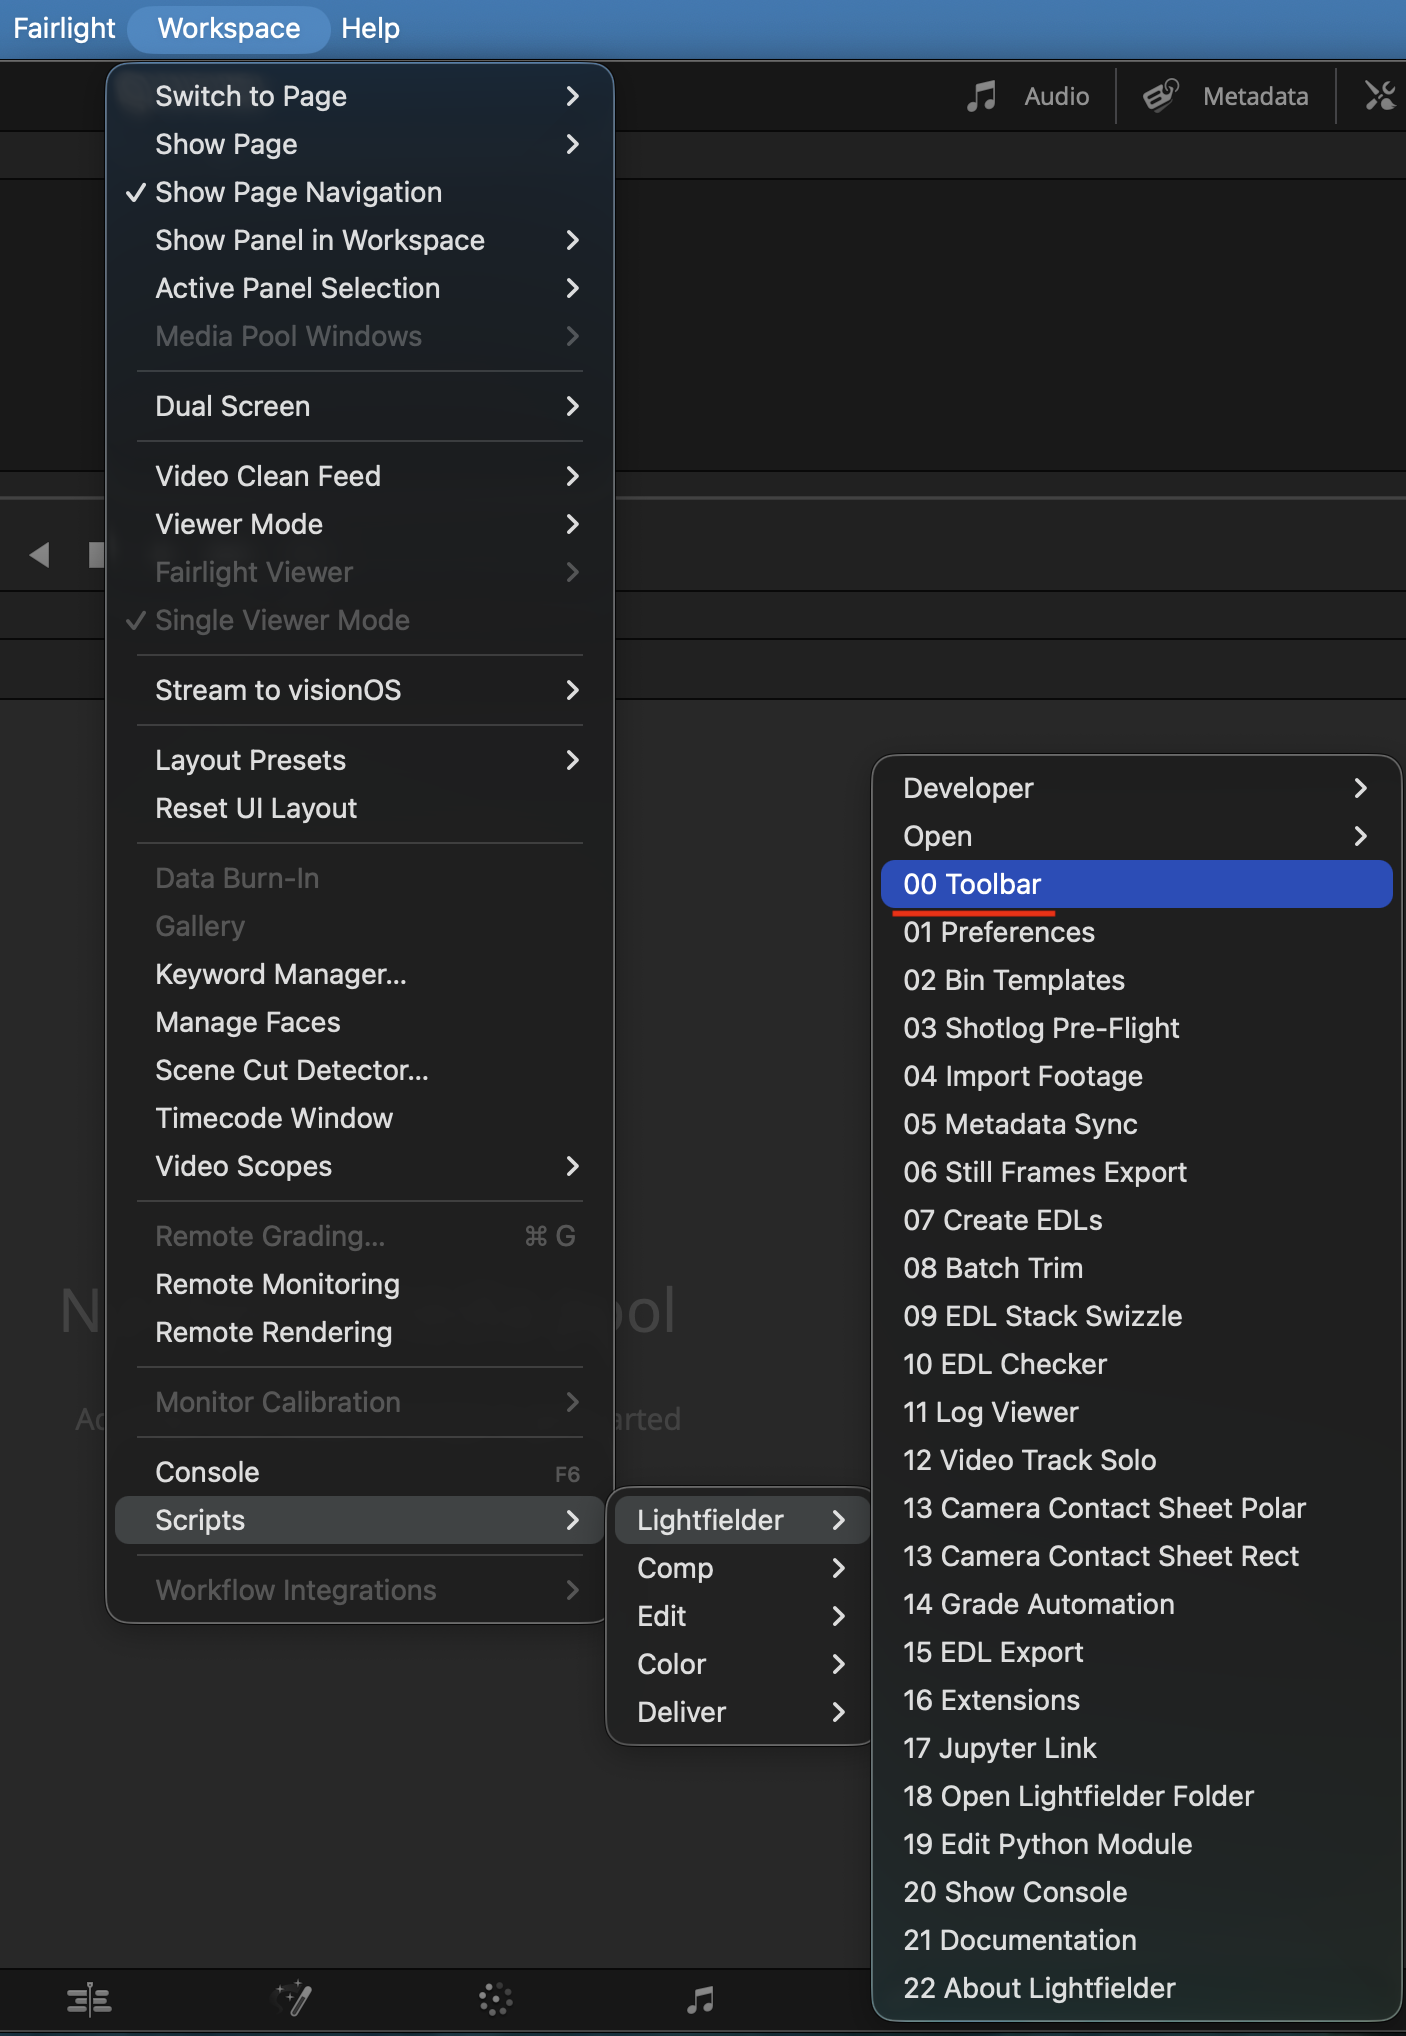
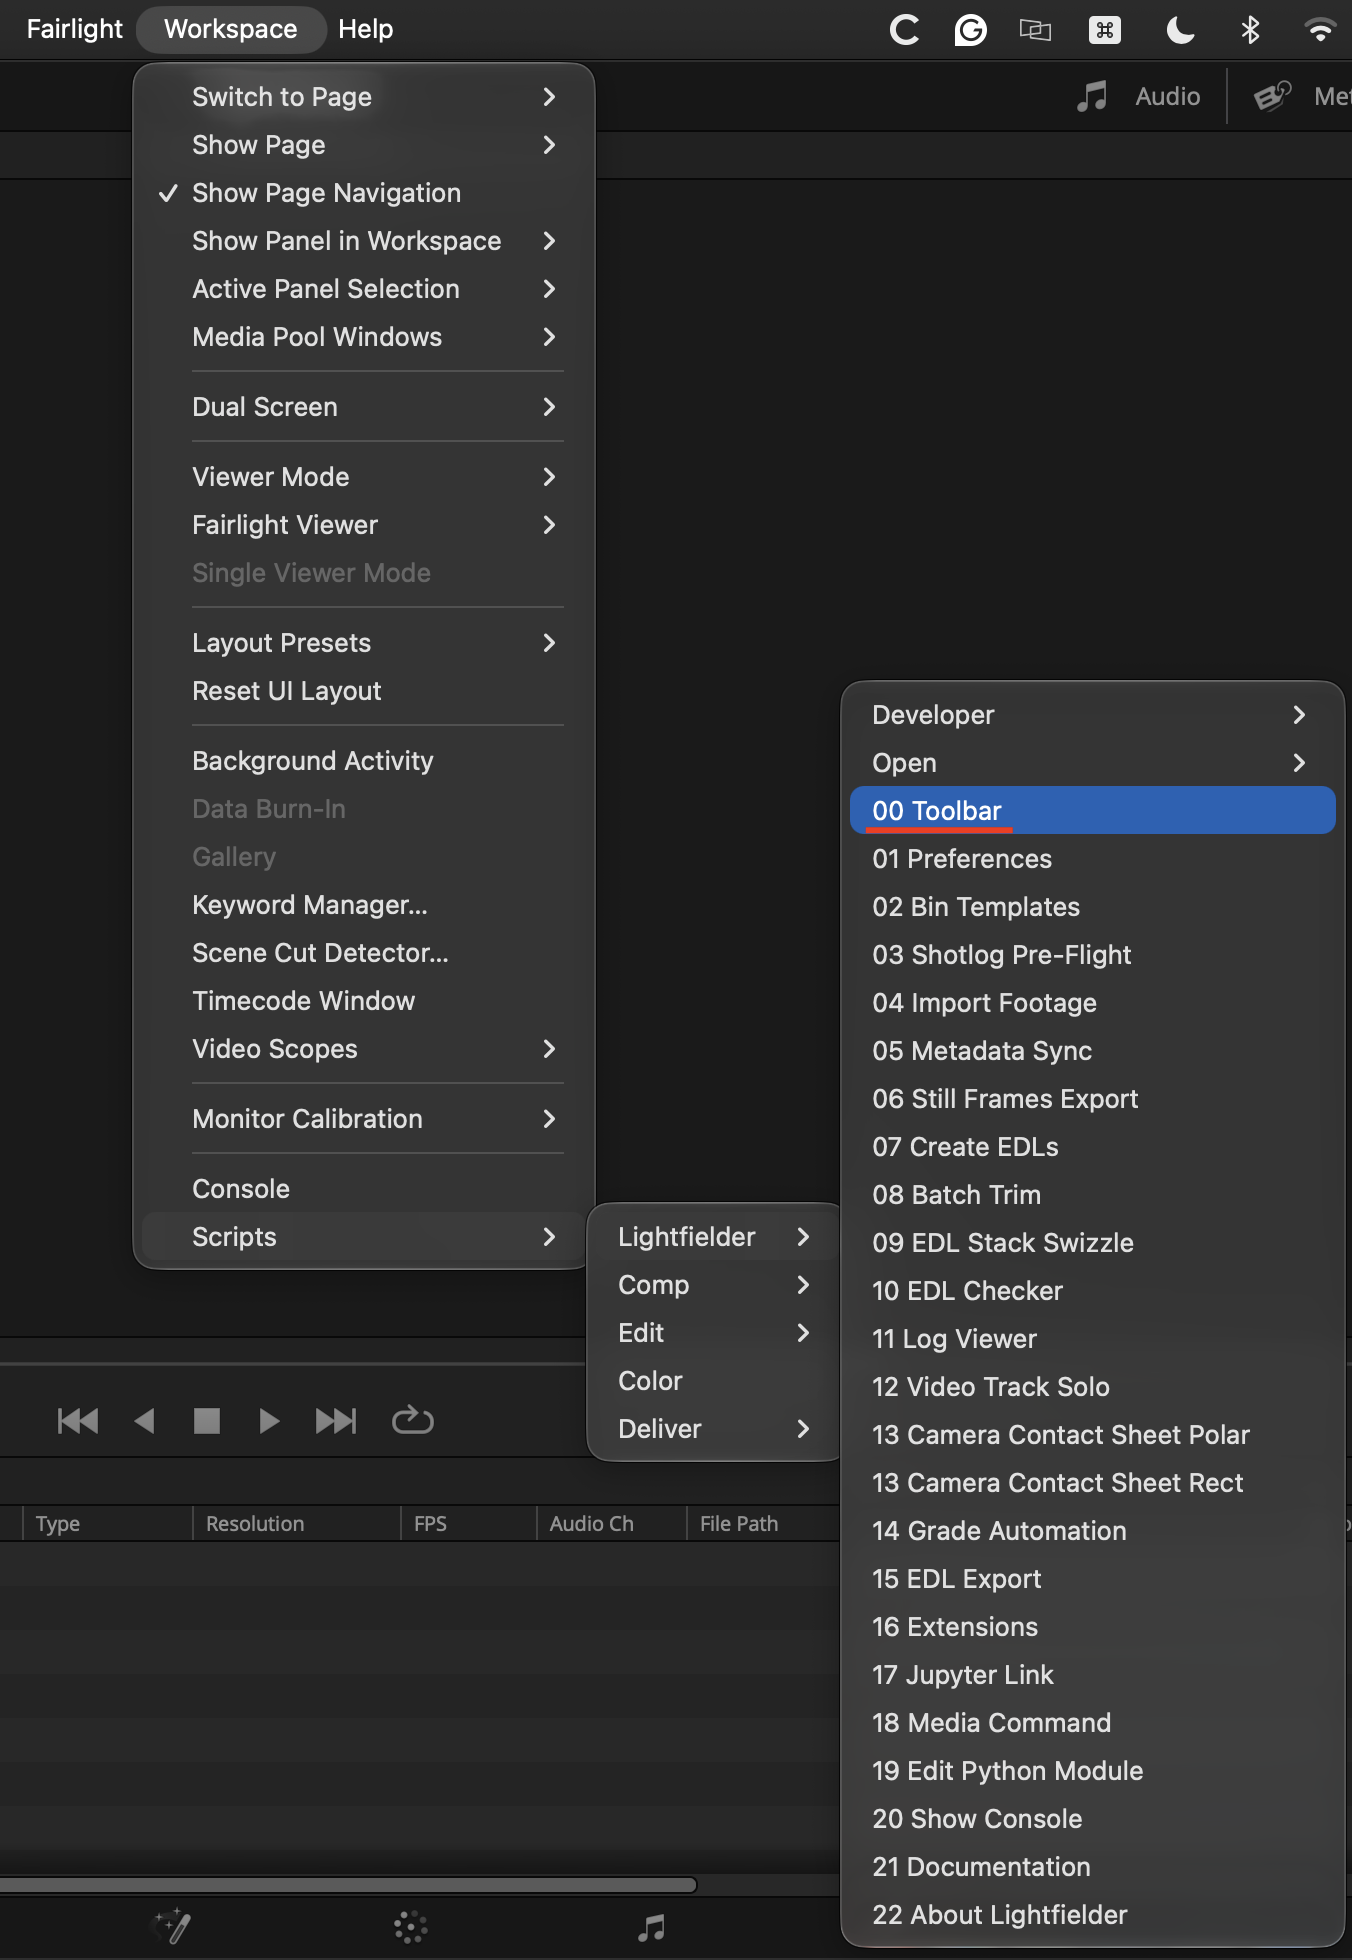
Media Command

diff --git a/Lightfielder/Docs/Scripts_00_Toolbar.md b/Lightfielder/Docs/Scripts_00_Toolbar.md
@@ -37,163 +37,150 @@ The JSON based preset files allow you to customize every parameter used in the t
 ```json
 {
 	"version": 1,
-	"width": 11,
+	"width": 10,
 	"height": 2,
-	"toolbar": {
-		"tool1": {
-			"icon": "fa-gear",
-			"script": "Lightfielder:/Resolve/Scripts/Utility/Lightfielder/01 Preferences.py",
-			"id": "PrefsWin",
-			"text": "01",
-			"tooltip": "01 Preferences"
+	"Toolbar": {
+		"Tool1": {
+			"Icon": "fa-gear",
+			"ScriptFile": "Lightfielder:/Resolve/Scripts/Utility/Lightfielder/01 Preferences.py",
+			"TargetID": "PrefsWin",
+			"Text": "01",
+			"Tooltip": "01 Preferences"
 		},
-		"tool2": {
-			"icon": "fa-archive",
-			"script": "Lightfielder:/Resolve/Scripts/Utility/Lightfielder/02 Bin Templates.py",
-			"id": "BinWin",
-			"text": "02",
-			"tooltip": "02 Bin Templates"
+		"Tool2": {
+			"Icon": "fa-archive",
+			"ScriptFile": "Lightfielder:/Resolve/Scripts/Utility/Lightfielder/02 Bin Templates.py",
+			"TargetID": "BinWin",
+			"Text": "02",
+			"Tooltip": "02 Bin Templates"
 		},
-		"tool3": {
-			"icon": "fa-medkit",
-			"script": "Lightfielder:/Resolve/Scripts/Utility/Lightfielder/03 Shot Validator.py",
-			"id": "ShotlogPreFlightWin",
-			"text": "03",
-			"tooltip": "03 Shot Pre-Flight"
+		"Tool3": {
+			"Icon": "fa-medkit",
+			"ScriptFile": "Lightfielder:/Resolve/Scripts/Utility/Lightfielder/03 Shot Validator.py",
+			"TargetID": "ShotlogValidatorWin",
+			"Text": "03",
+			"Tooltip": "03 Shot Validator"
 		},
-		"tool4": {
-			"icon": "fa-list-alt",
-			"script": "Lightfielder:/Resolve/Scripts/Utility/Lightfielder/04 Import Footage.py",
-			"id": "ImportFootageWin",
-			"text": "04",
-			"tooltip": "04 Import Footage"
+		"Tool4": {
+			"Icon": "fa-list-alt",
+			"ScriptFile": "Lightfielder:/Resolve/Scripts/Utility/Lightfielder/04 Import Footage.py",
+			"TargetID": "ImportFootageWin",
+			"Text": "04",
+			"Tooltip": "04 Import Footage"
 		},
-		"tool5": {
-			"icon": "fa-tags",
-			"script": "Lightfielder:/Resolve/Scripts/Utility/Lightfielder/05 Metadata Sync.py",
-			"id": "MetadataWin",
-			"text": "05",
-			"tooltip": "05 Metadata Sync"
+		"Tool5": {
+			"Icon": "fa-tags",
+			"ScriptFile": "Lightfielder:/Resolve/Scripts/Utility/Lightfielder/05 Metadata Sync.py",
+			"TargetID": "MetadataWin",
+			"Text": "05",
+			"Tooltip": "05 Metadata Sync"
 		},
-		"tool6": {
-			"icon": "fa-qrcode",
-			"script": "Lightfielder:/Resolve/Scripts/Utility/Lightfielder/06 Still Frames Export.py",
-			"id": "CalibrationWin",
-			"text": "06",
-			"tooltip": "06 Still Frames Export"
+		"Tool6": {
+			"Icon": "fa-qrcode",
+			"ScriptFile": "Lightfielder:/Resolve/Scripts/Utility/Lightfielder/06 Still Frames Export.py",
+			"TargetID": "CalibrationWin",
+			"Text": "06",
+			"Tooltip": "06 Still Frames Export"
 		},
-		"tool7": {
-			"icon": "fa-film",
-			"script": "Lightfielder:/Resolve/Scripts/Utility/Lightfielder/07 Create EDLs.py",
-			"id": "CreateEDLWin",
-			"text": "07",
-			"tooltip": "07 Create EDLs"
+		"Tool7": {
+			"Icon": "fa-film",
+			"ScriptFile": "Lightfielder:/Resolve/Scripts/Utility/Lightfielder/07 Create EDLs.py",
+			"TargetID": "CreateEDLWin",
+			"Text": "07",
+			"Tooltip": "07 Create EDLs"
 		},
-		"tool8": {
-			"icon": "fa-cut",
-			"script": "Lightfielder:/Resolve/Scripts/Utility/Lightfielder/08 Batch Trim.py",
-			"id": "TrimWin",
-			"text": "08",
-			"tooltip": "08 Batch Trim"
+		"Tool8": {
+			"Icon": "fa-cut",
+			"ScriptFile": "Lightfielder:/Resolve/Scripts/Utility/Lightfielder/08 Batch Trim.py",
+			"TargetID": "TrimWin",
+			"Text": "08",
+			"Tooltip": "08 Batch Trim"
 		},
-		"tool09": {
-			"icon": "fa-level-up",
-			"script": "Lightfielder:/Resolve/Scripts/Utility/Lightfielder/11 EDL Stack Swizzle.py",
-			"id": "EDLStackSwizzleWin",
-			"text": "09",
-			"tooltip": "09 EDL Stack Swizzle"
+		"Tool9": {
+			"Icon": "fa-fire",
+			"ScriptFile": "Lightfielder:/Resolve/Scripts/Utility/Lightfielder/09 EDL Checker.py",
+			"TargetID": "EDLChecker",
+			"Text": "09",
+			"Tooltip": "09 EDL Checker"
 		},
-		"tool10": {
-			"icon": "fa-fire",
-			"script": "Lightfielder:/Resolve/Scripts/Utility/Lightfielder/10 EDL Checker.py",
-			"id": "EDLChecker",
-			"text": "10",
-			"tooltip": "10 EDL Checker"
+		"Tool10": {
+			"Icon": "fa-triangle",
+			"ScriptFile": "Lightfielder:/Resolve/Scripts/Utility/Lightfielder/10 Log Viewer.py",
+			"TargetID": "LogViewerWin",
+			"Text": "10",
+			"Tooltip": "10 Log Viewer"
 		},
-		"tool11": {
-			"icon": "fa-triangle",
-			"script": "Lightfielder:/Resolve/Scripts/Utility/Lightfielder/11 Log Viewer.py",
-			"id": "LogViewerWin",
-			"text": "11",
-			"tooltip": "11 Log Viewer"
+		"Tool11": {
+			"Icon": "fa-level-up",
+			"ScriptFile": "Lightfielder:/Resolve/Scripts/Utility/Lightfielder/11 EDL Stack Swizzle.py",
+			"TargetID": "EDLStackSwizzleWin",
+			"Text": "11",
+			"Tooltip": "11 EDL Stack Swizzle"
 		},
-		"tool12": {
-			"icon": "fa-check-circle",
-			"script": "Lightfielder:/Resolve/Scripts/Utility/Lightfielder/12 Video Track Solo.py",
-			"id": "VideoTrackSoloWin",
-			"text": "12",
-			"tooltip": "12 Video Track Solo"
+		"Tool12": {
+			"Icon": "fa-check-circle",
+			"ScriptFile": "Lightfielder:/Resolve/Scripts/Utility/Lightfielder/12 Video Track Solo.py",
+			"TargetID": "VideoTrackSoloWin",
+			"Text": "12",
+			"Tooltip": "12 Video Track Solo"
 		},
-		"tool13": {
-			"icon": "fa-camera",
-			"script": "Lightfielder:/Resolve/Scripts/Utility/Lightfielder/13 Camera Contact Sheet.py",
-			"id": "CCSWin",
-			"text": "13",
-			"tooltip": "13 Camera Contact Sheet"
+		"Tool13": {
+			"Icon": "fa-camera",
+			"ScriptFile": "Lightfielder:/Resolve/Scripts/Utility/Lightfielder/13 Camera Contact Sheet.py",
+			"TargetID": "CCSWin",
+			"Text": "13",
+			"Tooltip": "13 Camera Contact Sheet"
 		},
-		"tool14": {
-			"icon": "fa-eyedropper",
-			"script": "Lightfielder:/Resolve/Scripts/Utility/Lightfielder/14 Grade Automation.py",
-			"id": "GradeAutomationWin",
-			"text": "14",
-			"tooltip": "14 Grade Automation"
+		"Tool14": {
+			"Icon": "fa-eyedropper",
+			"ScriptFile": "Lightfielder:/Resolve/Scripts/Utility/Lightfielder/14 Grade Automation.py",
+			"TargetID": "GradeAutomationWin",
+			"Text": "14",
+			"Tooltip": "14 Grade Automation"
 		},
-		"tool15": {
-			"icon": "fa-paper-plane",
-			"script": "Lightfielder:/Resolve/Scripts/Utility/Lightfielder/15 EDL Export.py",
-			"id": "EDLExportWin",
-			"text": "15",
-			"tooltip": "15 EDL Export"
+		"Tool15": {
+			"Icon": "fa-paper-plane",
+			"ScriptFile": "Lightfielder:/Resolve/Scripts/Utility/Lightfielder/15 EDL Export.py",
+			"TargetID": "EDLExportWin",
+			"Text": "15",
+			"Tooltip": "15 EDL Export"
 		},
-		"tool16": {
-			"icon": "fa-puzzle-piece",
-			"script": "Lightfielder:/Resolve/Scripts/Utility/Lightfielder/16 Extensions.py",
-			"id": "ExtensionsWin",
-			"text": "16",
-			"tooltip": "16 Extensions"
+		"Tool16": {
+			"Icon": "fa-puzzle-piece",
+			"ScriptFile": "Lightfielder:/Resolve/Scripts/Utility/Lightfielder/16 Extensions.py",
+			"TargetID": "ExtensionsWin",
+			"Text": "16",
+			"Tooltip": "16 Extensions"
 		},
-		"tool17": {
-			"icon": "fa-book",
-			"script": "Lightfielder:/Resolve/Scripts/Utility/Lightfielder/17 Jupyter Link.py",
-			"id": "JupyterWin",
-			"text": "17",
-			"tooltip": "17 Jupyter Link"
+		"Tool17": {
+			"Icon": "fa-folder-open",
+			"ScriptFile": "Lightfielder:/Resolve/Scripts/Utility/Lightfielder/17 Open Lightfielder Folder.py",
+			"TargetID": "Docs",
+			"Text": "17",
+			"Tooltip": "17 Open Lightfielder Folder"
 		},
-		"tool18": {
-			"icon": "fa-folder-open",
-			"script": "Lightfielder:/Resolve/Scripts/Utility/Lightfielder/18 Open Lightfielder Folder.py",
-			"id": "Docs",
-			"text": "18",
-			"tooltip": "18 Open Lightfielder Folder"
+		"Tool18": {
+			"Icon": "fa-file-code-o",
+			"ScriptFile": "Lightfielder:/Resolve/Scripts/Utility/Lightfielder/18 Media Command.lua",
+			"TargetID": "MediaCommandWin",
+			"Text": "18",
+			"Tooltip": "18 Media Command"
 		},
-		"tool19": {
-			"icon": "fa-file-code-o",
-			"script": "Lightfielder:/Resolve/Scripts/Utility/Lightfielder/19 Edit Python Module.py",
-			"id": "Docs",
-			"text": "19",
-			"tooltip": "19 Edit Python Module"
+		"Tool19": {
+			"Icon": "fa-file-code-o",
+			"ScriptFile": "Lightfielder:/Resolve/Scripts/Utility/Lightfielder/19 Console.py",
+			"TargetID": "fa-file-code-o",
+			"Text": "19",
+			"Tooltip": "19 Show Console"
 		},
-		"tool20": {
-			"icon": "fa-file-code-o",
-			"script": "Lightfielder:/Resolve/Scripts/Utility/Lightfielder/20 Console.py",
-			"id": "fa-file-code-o",
-			"text": "20",
-			"tooltip": "20 Show Console"
-		},
-		"tool21": {
-			"icon": "fa-code",
-			"script": "Lightfielder:/Resolve/Scripts/Utility/Lightfielder/21 Documentation.py",
-			"id": "Docs",
-			"text": "21",
-			"tooltip": "21 Documentation"
-		},
-		"tool22": {
-			"icon": "fa-info-circle",
-			"script": "Lightfielder:/Resolve/Scripts/Utility/Lightfielder/22 About Lightfielder",
-			"id": "AboutWin",
-			"text": "22",
-			"tooltip": "22 About Lightfielder"
+		"Tool20": {
+			"Icon": "fa-code",
+			"ScriptFile": "Lightfielder:/Resolve/Scripts/Utility/Lightfielder/20 Documentation.py",
+			"TargetID": "Docs",
+			"Text": "20",
+			"Tooltip": "20 Documentation"
 		}
 	}
 }
+
 ```

diff --git a/Lightfielder/Docs/Toolbar.md b/Lightfielder/Docs/Toolbar.md
@@ -6,7 +6,7 @@ Lightfielder ships with a custom toolbar. The scripts are numbered in linear ord
 
 ![Toolbar](images/toolbar.png)
 
-The Davinci Resolve Studio based Lightfielder workflow automation scripts are accessed using the "Workspace \> Scripts \> Lightfielder \> Toolbar" menu item.
+The DaVinci Resolve Studio based Lightfielder workflow automation scripts are accessed using the "Workspace \> Scripts \> Lightfielder \> Toolbar" menu item.
 
 ![Workspace Menu](images/menu_workspace_lightfielder_toolbar.png)
 
@@ -31,12 +31,12 @@ The scripts present in this menu area include:
 - [16 Extensions](Scripts_16_Extensions.md)
 - [17 Edit Jupyter Link](Scripts_17_Jupyter_Link.md)
 - [18 Media Command](Scripts_18_Media_Command.md)
-- [19 Show Console](Scripts_19_Show_Console.md)
-- [20 Documentation](Scripts_20_Documentation.md)
-- [21 Edit Python Module](Scripts_21_Edit_Python_Module.md)
+- [19 Edit Python Module](Scripts_19_Edit_Python_Module.md)
+- [20 Show Console](Scripts_20_Show_Console)
+- [21 Documentation](Scripts_21_Documentation.md)
 - [22 About Lightfielder](Scripts_22_About_Lightfielder.md)
 
-**Tip:** Hold down the shift key when clicking on a toolbar item to force-reload the script. This is handy if you have edited the script and want to refresh the view to show the changes.
+**Tip:** Hold down the Shift key when clicking on a toolbar item to force-reload the script. This is handy if you have edited the script and want to refresh the view to show the changes.
 
 **Tip:** Hold down the Command (macOS) or Control (Win/Linux) key when clicking on a toolbar item to edit that Python script. This works if you have a script editor program defined in the Fusion page settings.
 

diff --git a/Lightfielder/Docs/README.md b/Lightfielder/Docs/README.md
@@ -88,9 +88,9 @@ The Lightfielder workflow automation scripts are accessed using the "Workspace \
 		- [16 Extensions](Scripts_16_Extensions.md)
 		- [17 Edit Jupyter Link](Scripts_17_Jupyter_Link.md)
 		- [18 Media Command](Scripts_18_Media_Command.md)
-		- [19 Show Console](Scripts_19_Show_Console.md)
-		- [20 Documentation](Scripts_20_Documentation.md)
-		- [21 Edit Python Module](Scripts_21_Edit_Python_Module.md)
+		- [19 Edit Python Module](Scripts_19_Edit_Python_Module.md)
+		- [20 Show Console](Scripts_20_Show_Console)
+		- [21 Documentation](Scripts_21_Documentation.md)
 		- [22 About Lightfielder](Scripts_22_About_Lightfielder.md)
 	- [Metadata Tags](Metadata_Tags.md)
 	- [Shotlog Format](Shotlog.md)

diff --git a/Lightfielder/Docs/Scripts_18_Media_Command.md b/Lightfielder/Docs/Scripts_18_Media_Command.md
@@ -96,7 +96,6 @@ This example shows how "Copy Lua Table" script exports can be used with the Vonk
 
 ![Clip Lua Table to ScriptVal](Images/script_18_Media_Command_example_clip_lua_table_to_scriptval.png)
 
-
 The file is available on disk at the following PathMap location:
 
 > Lightfielder:/Resolve/Comps/Media Command/Clip Lua Table to ScriptVal.comp
